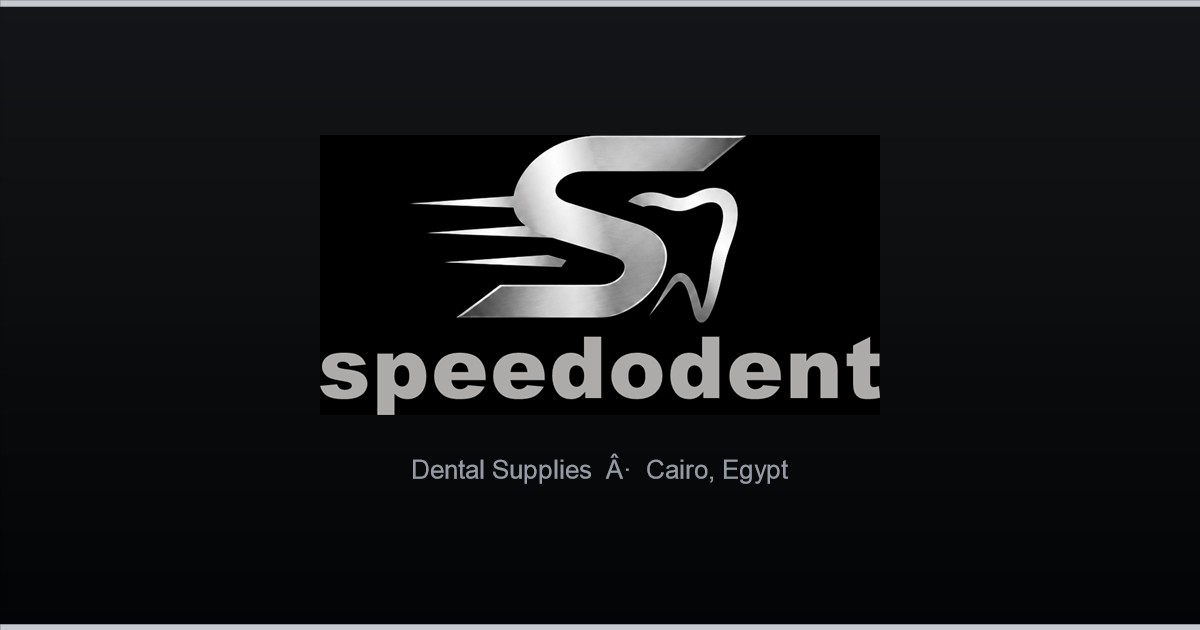
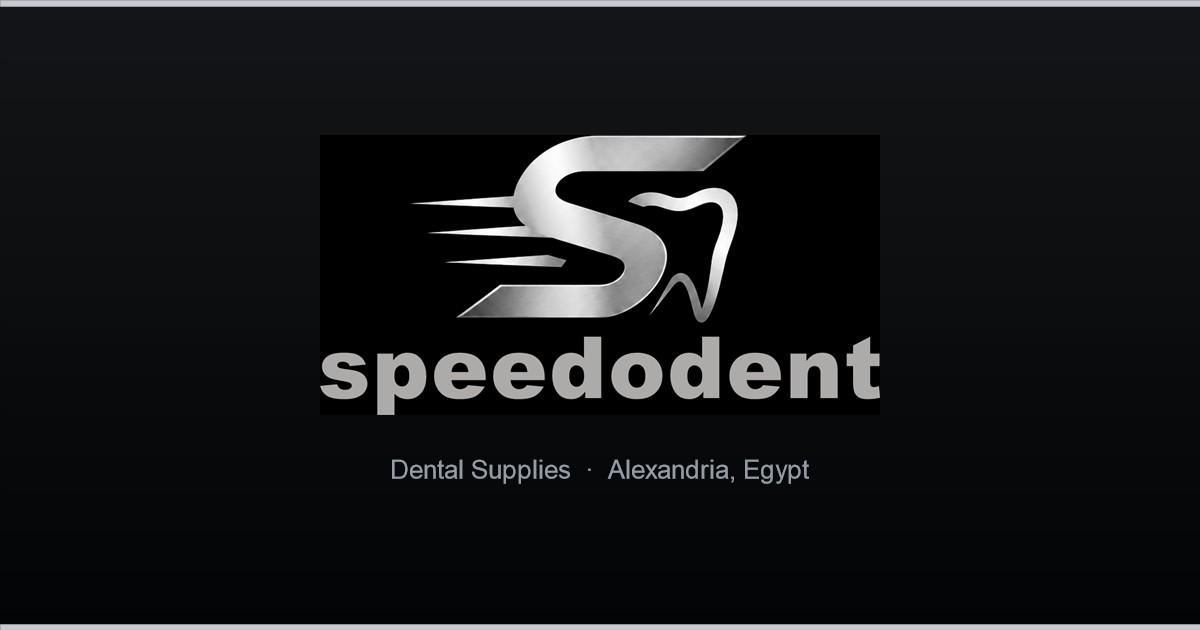
Change store location from Cairo to Alexandria, including the share image

Changed region(s): [[0.3083, 0.7238, 0.6783, 0.7841]]

diff --git a/index.html b/index.html
@@ -1233,7 +1233,7 @@
             <h2 class="section-title">Contact Us</h2>
             <div class="contact-info">
                 <p><span>📞</span> Phone: <a href="tel:+201040931823">+20 104 093 1823</a></p>
-                <p><span>📍</span> Address: Cairo, Egypt</p>
+                <p><span>📍</span> Address: Alexandria, Egypt</p>
                 <p><span>✉</span> Email: info@dentalstore.com</p>
             </div>
         </div>
@@ -1766,7 +1766,7 @@ const CONFIG = {
   // 3) Your store details
   STORE: {
     name: 'speedo chat',
-    location: 'Cairo, Egypt',
+    location: 'Alexandria, Egypt',
     phone: '+20 104 093 1823',
     whatsapp: '201040931823',          // digits only, no +
     hours: 'Saturday to Thursday, 10 AM - 9 PM',

diff --git a/chatbot.html b/chatbot.html
@@ -305,7 +305,7 @@ const CONFIG = {
   // 3) Your store details
   STORE: {
     name: 'speedo chat',
-    location: 'Cairo, Egypt',
+    location: 'Alexandria, Egypt',
     phone: '+20 104 093 1823',
     whatsapp: '201040931823',          // digits only, no +
     hours: 'Saturday to Thursday, 10 AM - 9 PM',
